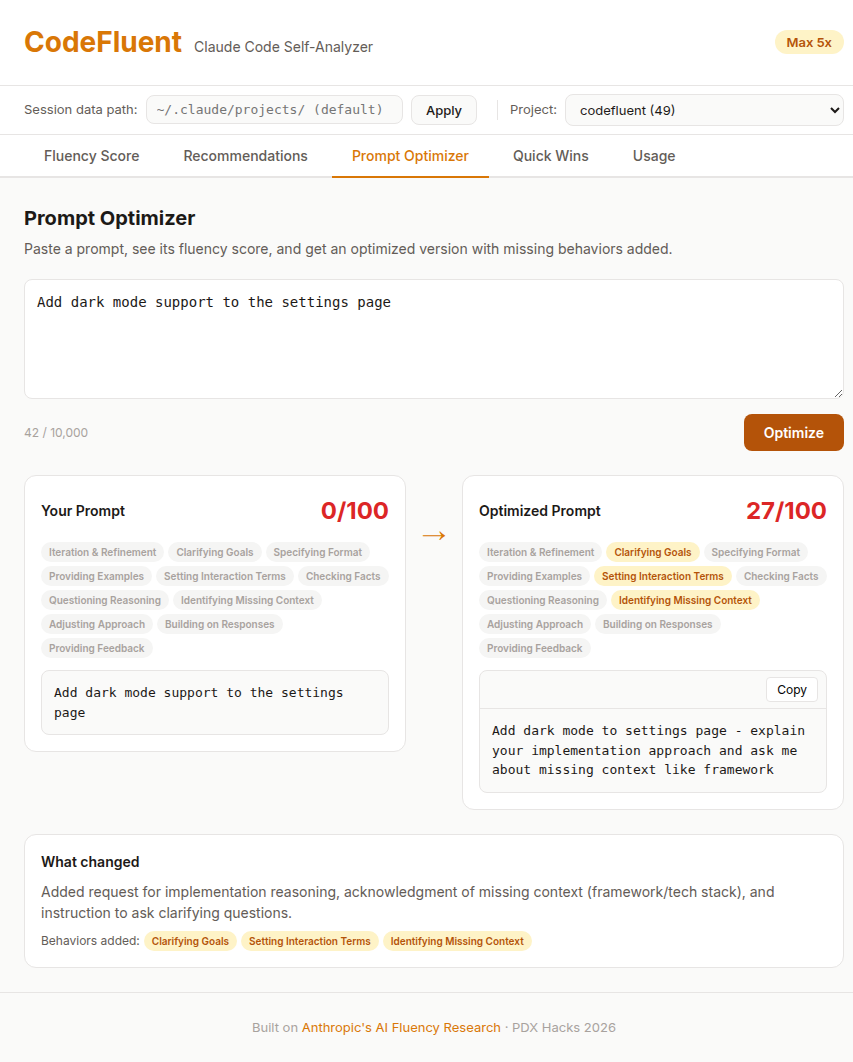
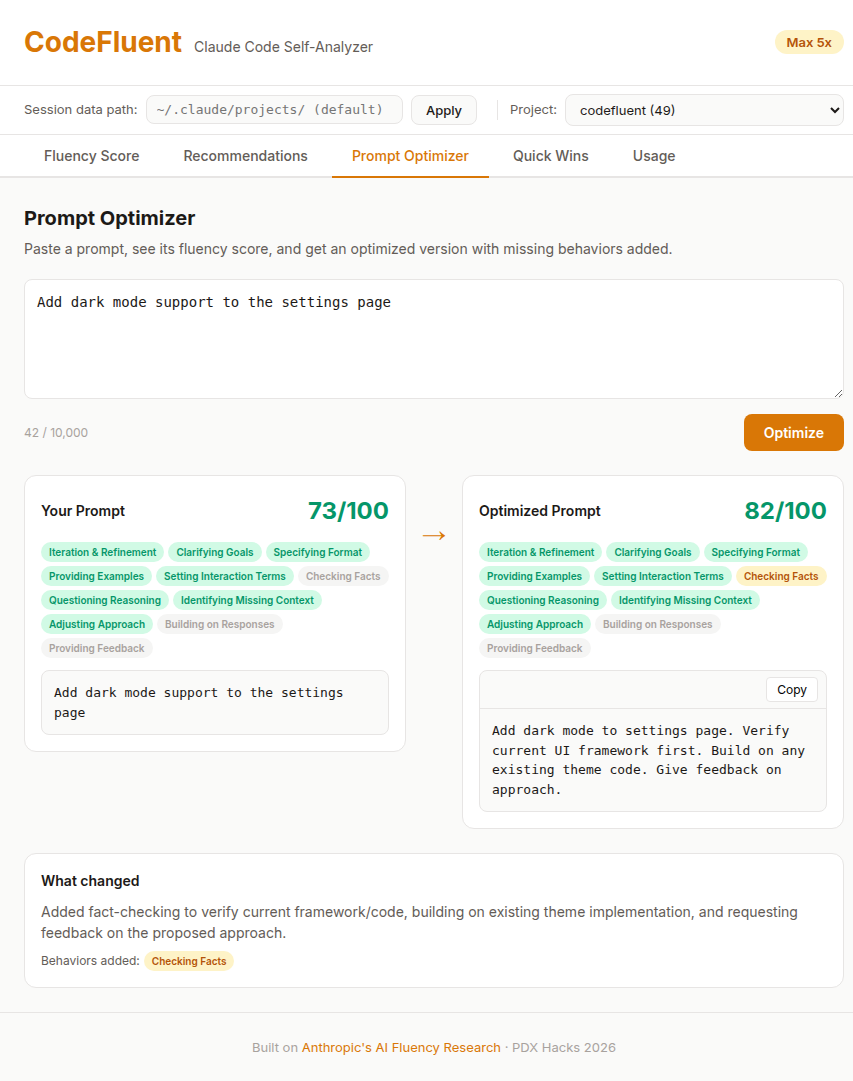
Fix webapp optimizer to send project_path_encoded for CLAUDE.md lookup
The optimizer was sending the short project name (e.g., "codefluent")
but the backend expected the encoded path to locate the CLAUDE.md file.
Added getSelectedProjectEncoded() to resolve the encoded path from
session data. Webapp now shows config-boosted scores matching the
VS Code extension behavior.

diff --git a/webapp/static/app.js b/webapp/static/app.js
@@ -234,6 +234,14 @@ function getSelectedProject() {
   return localStorage.getItem('codefluent-project') || ''
 }
 
+function getSelectedProjectEncoded() {
+  const project = getSelectedProject()
+  if (!project) return ''
+  const sessions = state.sessions?.sessions || []
+  const match = sessions.find(s => s.project === project && s.project_path_encoded)
+  return match ? match.project_path_encoded : ''
+}
+
 function getFilteredSessions() {
   const sessions = state.sessions?.sessions || []
   const project = getSelectedProject()
@@ -916,7 +924,7 @@ async function runOptimizer() {
     const resp = await fetch('/api/optimize', {
       method: 'POST',
       headers: { 'Content-Type': 'application/json' },
-      body: JSON.stringify({ prompt, project: getSelectedProject() }),
+      body: JSON.stringify({ prompt, project: getSelectedProjectEncoded() }),
     })
     if (!resp.ok) {
       const err = await resp.json().catch(() => ({}))

diff --git a/webapp/main.py b/webapp/main.py
@@ -787,6 +787,8 @@ def _decode_project_path(encoded: str) -> str:
     return "/" + encoded.lstrip("-").replace("-", "/")
 
 
+
+
 def compute_aggregate(scored_sessions: list, config_behaviors: dict = None) -> dict:
     """Compute aggregate fluency metrics across scored sessions."""
     n = len(scored_sessions)
